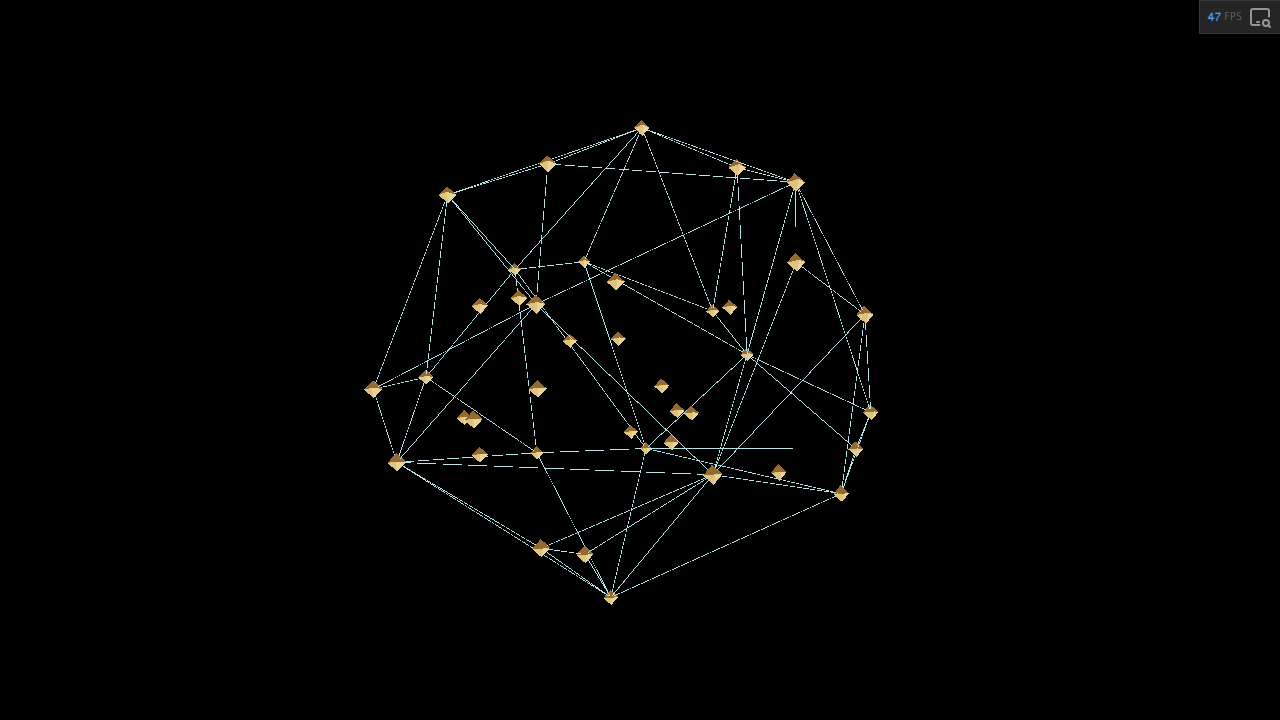
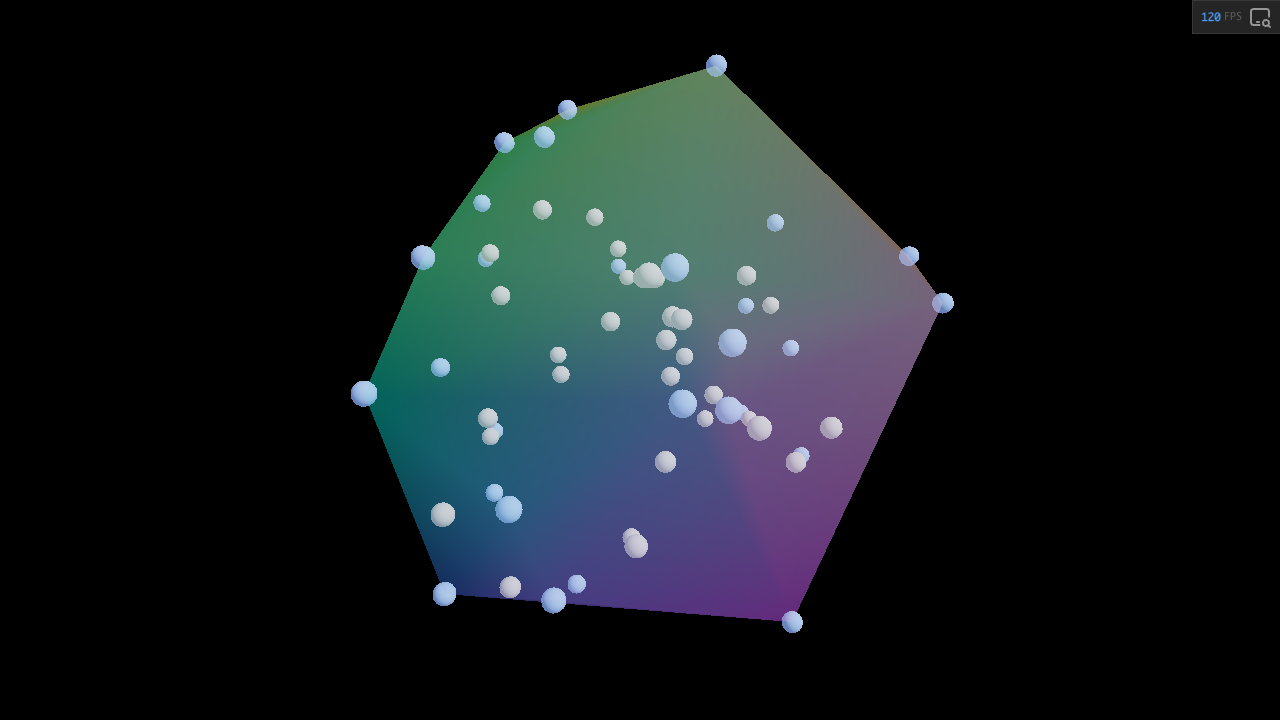
feat: rainbow hull shell + instanced sphere points (webgpu)

Changed region(s): [[0.25, 0.0611, 0.75, 0.8861], [0.9062, 0.0, 0.9688, 0.0306]]

diff --git a/examples/src/example-convex-hull-3d.ts b/examples/src/example-convex-hull-3d.ts
@@ -1,48 +1,21 @@
-import {
-    attribute,
-    cameraProjectionMatrix,
-    cameraViewMatrix,
-    createVertexBuffer,
-    d,
-    f32,
-    Geometry,
-    Inspector,
-    LineMaterial,
-    LineSegments,
-    LineSegmentsGeometry,
-    Material,
-    Mesh,
-    modelNormalMatrix,
-    modelWorldMatrix,
-    mul,
-    normalize,
-    OrbitControls,
-    pass,
-    PerspectiveCamera,
-    RenderPipeline,
-    renderOutput,
-    Scene,
-    Var,
-    varying,
-    vec3,
-    vec4,
-    vec4f,
-    WebGLRenderer,
-} from 'gpucat';
-import { quat, vec3 as v3 } from 'mathcat';
+import * as g from 'gpucat';
+import { mat4, quat, vec3 as v3 } from 'mathcat';
 import { quickhull3 } from 'mathcat/geometry';
 import { mulberry32 } from 'mathcat/random';
 
-// A random 3D point cloud, its convex hull computed with mathcat's quickhull3.
-// gpucat draws the hull as a wireframe around solid point markers; mathcat does
-// all the maths — point generation (mulberry32), the hull, per-face normals
-// (vec3), and the turntable spin (quat).
+// A seeded 3D point cloud and its convex hull (mathcat's quickhull3), rendered
+// with gpucat: a translucent normal-coloured "rainbow" hull shell over instanced
+// spheres — blue for points on the hull, grey for points inside it. mathcat does
+// the maths: point generation (mulberry32), the hull, and its vertex normals (vec3).
 
-const POINT_COUNT = 40;
+const d = g.d;
+
+const POINT_COUNT = 60;
 const CLOUD_RADIUS = 1.5;
-const MARKER_RADIUS = 0.045;
+const MARKER_RADIUS = 0.05;
+const HULL_OPACITY = 0.16;
 
-/* mathcat: generate a seeded point cloud inside a ball (rejection sampling) */
+/* mathcat: seeded point cloud inside a ball (rejection sampling) */
 
 const rng = mulberry32.create(1337);
 const points: number[] = [];
@@ -54,14 +27,50 @@ while (points.length < POINT_COUNT * 3) {
         points.push(x * CLOUD_RADIUS, y * CLOUD_RADIUS, z * CLOUD_RADIUS);
     }
 }
+const numPoints = points.length / 3;
 
-/* mathcat: compute the convex hull (triangle indices into `points`) */
+/* mathcat: convex hull (triangle indices) + the set of on-hull vertices */
 
 const hullIndices = quickhull3(points);
+const hullVertices = new Set(hullIndices);
+
+/* mathcat: smooth vertex normals for the hull (area-weighted face normals) */
+
+const hullNormals = new Float32Array(numPoints * 3);
+{
+    const a = v3.create();
+    const b = v3.create();
+    const c = v3.create();
+    const e1 = v3.create();
+    const e2 = v3.create();
+    const fn = v3.create();
+    for (let i = 0; i < hullIndices.length; i += 3) {
+        const ia = hullIndices[i];
+        const ib = hullIndices[i + 1];
+        const ic = hullIndices[i + 2];
+        v3.set(a, points[ia * 3], points[ia * 3 + 1], points[ia * 3 + 2]);
+        v3.set(b, points[ib * 3], points[ib * 3 + 1], points[ib * 3 + 2]);
+        v3.set(c, points[ic * 3], points[ic * 3 + 1], points[ic * 3 + 2]);
+        v3.subtract(e1, b, a);
+        v3.subtract(e2, c, a);
+        v3.cross(fn, e1, e2); // length ∝ triangle area → area-weighted accumulation
+        for (const idx of [ia, ib, ic]) {
+            hullNormals[idx * 3] += fn[0];
+            hullNormals[idx * 3 + 1] += fn[1];
+            hullNormals[idx * 3 + 2] += fn[2];
+        }
+    }
+    for (let i = 0; i < numPoints; i++) {
+        const len = Math.hypot(hullNormals[i * 3], hullNormals[i * 3 + 1], hullNormals[i * 3 + 2]) || 1;
+        hullNormals[i * 3] /= len;
+        hullNormals[i * 3 + 1] /= len;
+        hullNormals[i * 3 + 2] /= len;
+    }
+}
 
 /* renderer, scene, camera */
 
-const renderer = new WebGLRenderer({ antialias: true });
+const renderer = new g.WebGPURenderer({ antialias: true });
 await renderer.init();
 
 const canvas = renderer.domElement as HTMLCanvasElement;
@@ -69,20 +78,19 @@ document.body.appendChild(canvas);
 renderer.setPixelRatio(devicePixelRatio);
 renderer.setSize(window.innerWidth, window.innerHeight);
 
-const scene = new Scene();
+const scene = new g.Scene();
 
-const camera = new PerspectiveCamera(
-    Math.PI / 4,
-    window.innerWidth / window.innerHeight,
-    0.1,
-    100,
-);
-camera.position[2] = 5;
+const camera = new g.PerspectiveCamera(Math.PI / 4, window.innerWidth / window.innerHeight, 0.1, 100);
+camera.position[0] = -1.6;
+camera.position[1] = 1.8;
+camera.position[2] = 3.6;
 scene.add(camera);
 
-const controls = new OrbitControls(camera, canvas);
+const controls = new g.OrbitControls(camera, canvas);
+controls.enableDamping = true;
+controls.dampingFactor = 0.1;
 
-renderer.setInspector(new Inspector());
+renderer.setInspector(new g.Inspector());
 
 window.addEventListener('resize', () => {
     renderer.setSize(window.innerWidth, window.innerHeight);
@@ -90,129 +98,106 @@ window.addEventListener('resize', () => {
     camera.updateProjectionMatrix();
 });
 
-/* hull wireframe — one line segment per unique hull edge */
+/* instanced spheres — one per point, tinted by hull membership */
 
-const edgeSet = new Set<string>();
-const edgePoints: number[] = [];
-function addEdge(a: number, b: number) {
-    const key = a < b ? `${a}_${b}` : `${b}_${a}`;
-    if (edgeSet.has(key)) return;
-    edgeSet.add(key);
-    edgePoints.push(points[a * 3], points[a * 3 + 1], points[a * 3 + 2]);
-    edgePoints.push(points[b * 3], points[b * 3 + 1], points[b * 3 + 2]);
-}
-for (let i = 0; i < hullIndices.length; i += 3) {
-    const [a, b, c] = [hullIndices[i], hullIndices[i + 1], hullIndices[i + 2]];
-    addEdge(a, b);
-    addEdge(b, c);
-    addEdge(c, a);
-}
+const sphere = g.createSphereGeometry(1, 16, 12);
 
-const hullGeometry = new LineSegmentsGeometry(edgePoints);
-const hullMaterial = new LineMaterial({ color: vec4f(0.35, 0.85, 1.0, 1.0) as never, lineWidth: 1.5 });
-const hull = new LineSegments(hullGeometry, hullMaterial);
-scene.add(hull);
-
-/* point markers — a small lit octahedron merged for every point */
-
-const OCTA_VERTS: [number, number, number][] = [
-    [1, 0, 0], [-1, 0, 0], [0, 1, 0], [0, -1, 0], [0, 0, 1], [0, 0, -1],
-];
-const OCTA_FACES: [number, number, number][] = [
-    [4, 0, 2], [4, 2, 1], [4, 1, 3], [4, 3, 0],
-    [5, 2, 0], [5, 1, 2], [5, 3, 1], [5, 0, 3],
-];
-
-const vertsPerCloud = POINT_COUNT * OCTA_FACES.length * 3;
-const markerPositions = new Float32Array(vertsPerCloud * 3);
-const markerNormals = new Float32Array(vertsPerCloud * 3);
-
-const a = v3.create();
-const b = v3.create();
-const cc = v3.create();
-const ab = v3.create();
-const ac = v3.create();
-const nrm = v3.create();
-let w = 0;
-for (let p = 0; p < POINT_COUNT; p++) {
-    const px = points[p * 3];
-    const py = points[p * 3 + 1];
-    const pz = points[p * 3 + 2];
-    for (const [i0, i1, i2] of OCTA_FACES) {
-        v3.set(a, px + OCTA_VERTS[i0][0] * MARKER_RADIUS, py + OCTA_VERTS[i0][1] * MARKER_RADIUS, pz + OCTA_VERTS[i0][2] * MARKER_RADIUS);
-        v3.set(b, px + OCTA_VERTS[i1][0] * MARKER_RADIUS, py + OCTA_VERTS[i1][1] * MARKER_RADIUS, pz + OCTA_VERTS[i1][2] * MARKER_RADIUS);
-        v3.set(cc, px + OCTA_VERTS[i2][0] * MARKER_RADIUS, py + OCTA_VERTS[i2][1] * MARKER_RADIUS, pz + OCTA_VERTS[i2][2] * MARKER_RADIUS);
-
-        // mathcat: flat face normal via edge cross product
-        v3.subtract(ab, b, a);
-        v3.subtract(ac, cc, a);
-        v3.cross(nrm, ab, ac);
-        v3.normalize(nrm, nrm);
-
-        for (const vert of [a, b, cc]) {
-            markerPositions[w * 3] = vert[0];
-            markerPositions[w * 3 + 1] = vert[1];
-            markerPositions[w * 3 + 2] = vert[2];
-            markerNormals[w * 3] = nrm[0];
-            markerNormals[w * 3 + 1] = nrm[1];
-            markerNormals[w * 3 + 2] = nrm[2];
-            w++;
-        }
+const instanceMatrices = new Float32Array(numPoints * 16);
+const instanceColors = new Float32Array(numPoints * 3);
+{
+    const t = v3.create();
+    const s = v3.fromValues(MARKER_RADIUS, MARKER_RADIUS, MARKER_RADIUS);
+    const q = quat.create();
+    const m = mat4.create();
+    for (let i = 0; i < numPoints; i++) {
+        v3.set(t, points[i * 3], points[i * 3 + 1], points[i * 3 + 2]);
+        mat4.fromRotationTranslationScale(m, q, t, s);
+        instanceMatrices.set(m, i * 16);
+        const onHull = hullVertices.has(i);
+        instanceColors[i * 3] = onHull ? 0.3 : 0.5;
+        instanceColors[i * 3 + 1] = onHull ? 0.45 : 0.5;
+        instanceColors[i * 3 + 2] = onHull ? 1.0 : 0.55;
     }
 }
 
-const markerGeometry = new Geometry();
-markerGeometry.setBuffer('position', createVertexBuffer(d.vec3f, markerPositions));
-markerGeometry.setBuffer('normal', createVertexBuffer(d.vec3f, markerNormals));
-markerGeometry.drawRange.count = vertsPerCloud;
+const stride = 16 * 4;
+const col0 = g.attribute(instanceMatrices, d.vec4f, { stride, offset: 0, instanced: true });
+const col1 = g.attribute(instanceMatrices, d.vec4f, { stride, offset: 16, instanced: true });
+const col2 = g.attribute(instanceMatrices, d.vec4f, { stride, offset: 32, instanced: true });
+const col3 = g.attribute(instanceMatrices, d.vec4f, { stride, offset: 48, instanced: true });
+const instanceTransform = g.mat4(col0, col1, col2, col3);
+const instanceColor = g.attribute(instanceColors, d.vec3f, { stride: 12, offset: 0, instanced: true });
 
-// lit shader graph (named intermediates via Var)
-const position = attribute('position', d.vec3f);
-const normal = attribute('normal', d.vec3f);
+const spherePos = g.attribute('position', d.vec3f);
+const sphereNormal = g.attribute('normal', d.vec3f);
 
-const worldPosition = Var('worldPosition', mul(modelWorldMatrix, vec4(position, f32(1))));
-const clipPosition = mul(cameraProjectionMatrix, mul(cameraViewMatrix, worldPosition));
+const sphereWorld = g.mul(instanceTransform, g.vec4(spherePos, g.f32(1)));
+const sphereClip = g.mul(g.cameraProjectionMatrix, g.mul(g.cameraViewMatrix, sphereWorld));
 
-const vWorldNormal = varying(normalize(mul(modelNormalMatrix, normal)), 'vNormal');
+// instances carry only uniform scale + translation, so the object-space normal
+// is already the world normal.
+const vSphereNormal = g.varying(g.normalize(sphereNormal), 'v_snormal');
+const vSphereColor = g.varying(instanceColor, 'v_scolor');
 
-const lightDirection = vec3(0.6, 1.0, 0.8).normalize();
-const diffuse = Var('diffuse', vWorldNormal.dot(lightDirection).max(f32(0)));
-const lighting = Var('lighting', f32(0.2).add(diffuse.mul(f32(0.9))));
-const markerColor = vec3(1.0, 0.55, 0.2);
-const litColor = Var('litColor', markerColor.mul(lighting));
+const lightDirection = g.vec3(0.6, 1.0, 0.8).normalize();
+const sphereDiffuse = g.Var('sphereDiffuse', vSphereNormal.dot(lightDirection).max(g.f32(0)));
+const sphereLight = g.Var('sphereLight', g.f32(0.35).add(sphereDiffuse.mul(g.f32(0.75))));
+const sphereLit = g.Var('sphereLit', vSphereColor.mul(sphereLight));
 
-const markerMaterial = new Material({
-    vertex: clipPosition,
-    fragment: vec4(litColor, f32(1)),
-    cullMode: 'none',
+const sphereMaterial = new g.Material({
+    vertex: sphereClip,
+    fragment: g.vec4(sphereLit, g.f32(1)),
 });
 
-const markers = new Mesh(markerGeometry, markerMaterial);
-scene.add(markers);
+const pointsMesh = new g.Mesh(sphere, sphereMaterial);
+pointsMesh.count = numPoints;
+scene.add(pointsMesh);
+
+/* hull — translucent shell coloured by surface normal (the "rainbow") */
+
+// distinct attribute names so the hull's (small, 60-vertex) buffers can't be
+// bound during the instanced sphere draw, which shares 'position'/'normal'.
+const hullGeometry = new g.Geometry();
+hullGeometry.setBuffer('hullPosition', g.createVertexBuffer(d.vec3f, new Float32Array(points)));
+hullGeometry.setBuffer('hullNormal', g.createVertexBuffer(d.vec3f, hullNormals));
+hullGeometry.setIndex(g.createIndexBuffer(new Uint32Array(hullIndices)));
+
+const hullPos = g.attribute('hullPosition', d.vec3f);
+const hullNormal = g.attribute('hullNormal', d.vec3f);
+
+const hullWorld = g.mul(g.modelWorldMatrix, g.vec4(hullPos, g.f32(1)));
+const hullClip = g.mul(g.cameraProjectionMatrix, g.mul(g.cameraViewMatrix, hullWorld));
+const vHullNormal = g.varying(g.normalize(g.mul(g.modelNormalMatrix, hullNormal)), 'v_hnormal');
+
+// normal (-1..1) → colour (0..1)
+const rainbow = g.Var('rainbow', vHullNormal.mul(g.f32(0.5)).add(g.vec3(0.5, 0.5, 0.5)));
+
+const hullMaterial = new g.Material({
+    vertex: hullClip,
+    fragment: g.vec4(rainbow, g.f32(HULL_OPACITY)),
+    transparent: true,
+    cullMode: 'back',
+    depthWrite: false,
+    depthTest: false,
+    blend: {
+        color: { srcFactor: 'src-alpha', dstFactor: 'one-minus-src-alpha', operation: 'add' },
+        alpha: { srcFactor: 'one', dstFactor: 'one-minus-src-alpha', operation: 'add' },
+    },
+});
+
+const hullMesh = new g.Mesh(hullGeometry, hullMaterial);
+scene.add(hullMesh);
 
 scene.updateWorldMatrix();
 camera.updateViewMatrix();
 
-/* render loop — mathcat quaternion drives a shared turntable spin */
+/* render loop */
 
-const scenePass = pass(scene, camera);
-const outputNode = renderOutput(scenePass.getTextureNode());
-const renderPipeline = new RenderPipeline(renderer, outputNode);
-
-const spinAxis = v3.normalize(v3.create(), v3.fromValues(0.1, 1, 0.05));
-let angle = 0;
-let prevTime = performance.now() / 1000;
+const scenePass = g.pass(scene, camera);
+const outputNode = g.renderOutput(scenePass.getTextureNode());
+const renderPipeline = new g.RenderPipeline(renderer, outputNode);
 
 function frame() {
-    const now = performance.now() / 1000;
-    const dt = now - prevTime;
-    prevTime = now;
-
-    angle += dt * 0.4;
-    quat.setAxisAngle(markers.quaternion, spinAxis, angle);
-    quat.setAxisAngle(hull.quaternion, spinAxis, angle);
-    scene.updateWorldMatrix();
-
     controls.update();
     renderPipeline.render();
     requestAnimationFrame(frame);

diff --git a/examples/scripts/screenshot.js b/examples/scripts/screenshot.js
@@ -95,8 +95,14 @@ try {
         // Headless by default so the run doesn't steal desktop focus.
         // Set HEADED=1 to watch it drive a real window.
         headless: process.env.HEADED !== '1',
-        // Shove any headed fallback window far offscreen so it can't cover work.
-        args: ['--window-position=-10000,-10000'],
+        // Enable WebGPU in headless Chromium (some examples use gpucat's WebGPU
+        // backend); --use-angle=metal is the best GPU path on macOS. Shove any
+        // headed fallback window far offscreen so it can't cover work.
+        args: [
+            '--use-angle=metal',
+            '--enable-unsafe-webgpu',
+            '--window-position=-10000,-10000',
+        ],
     });
 
     const context = await browser.newContext({ viewport: VIEWPORT });
